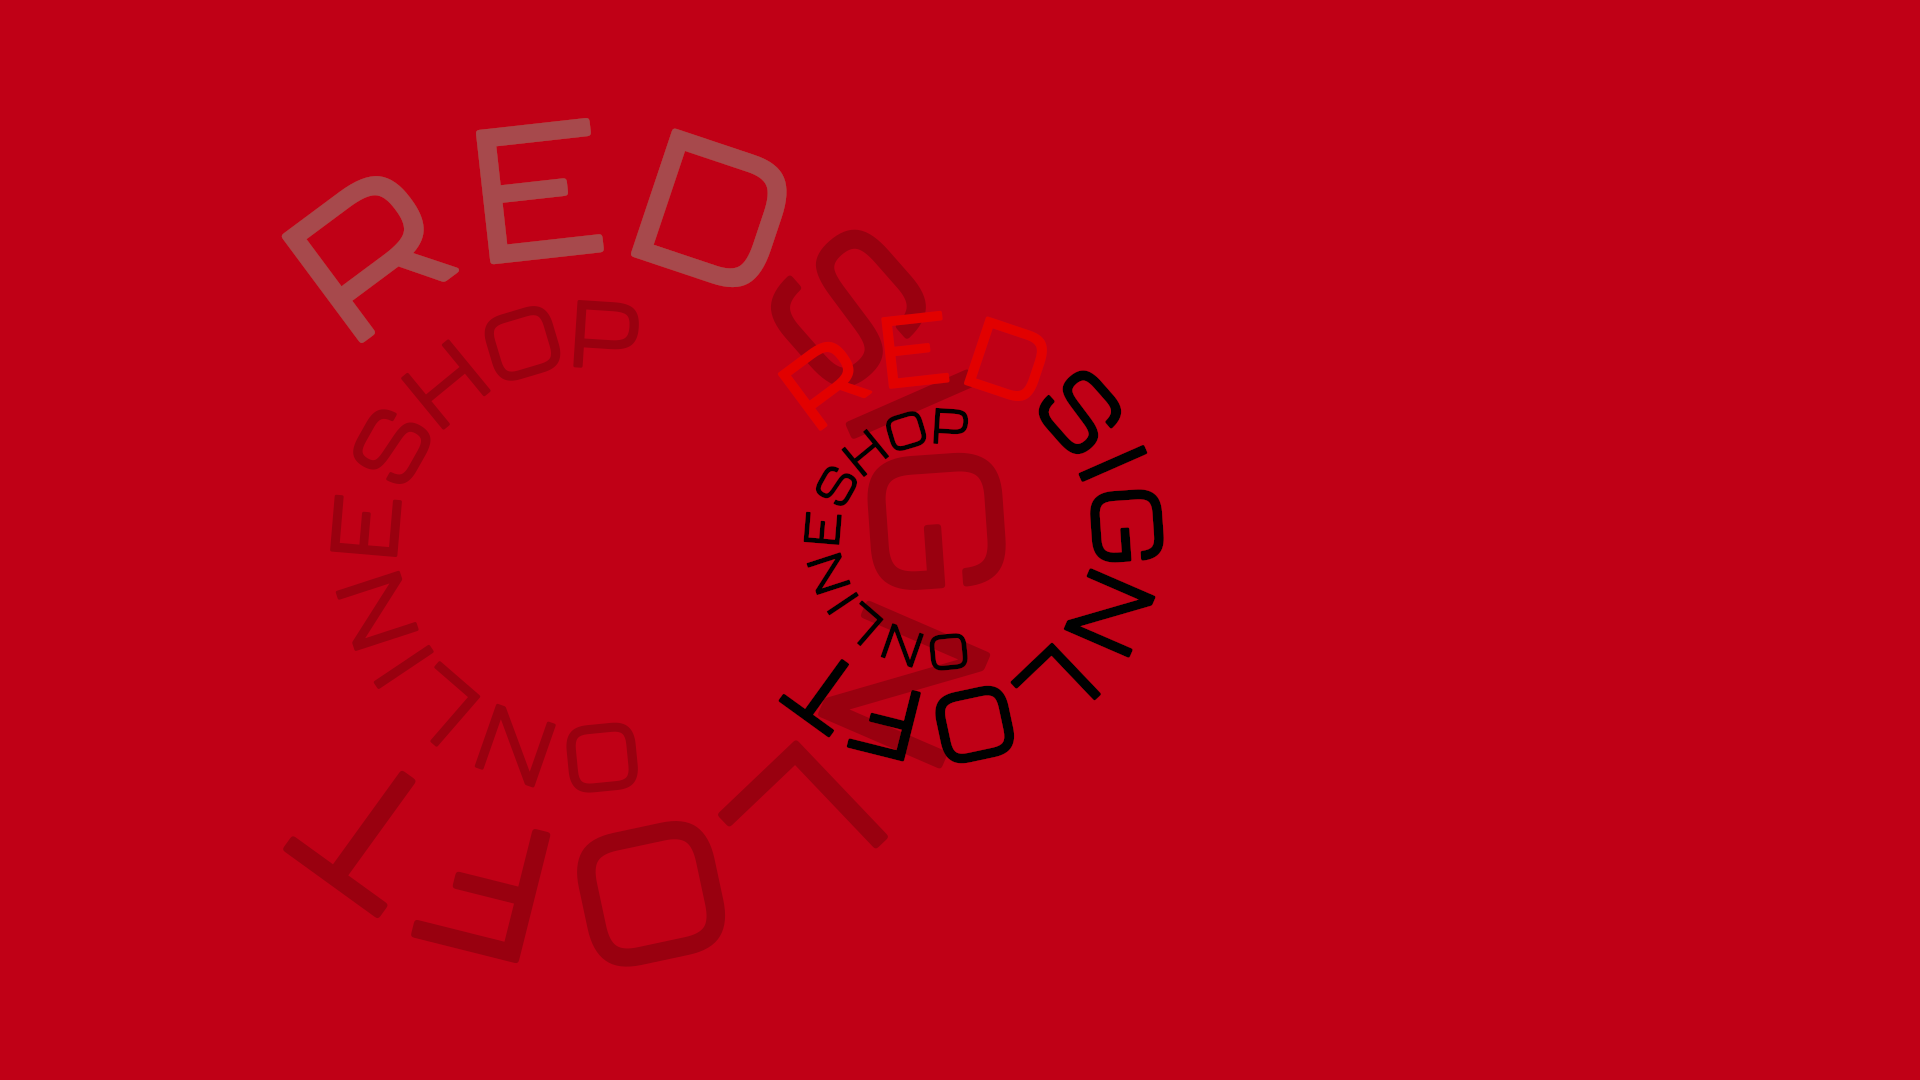
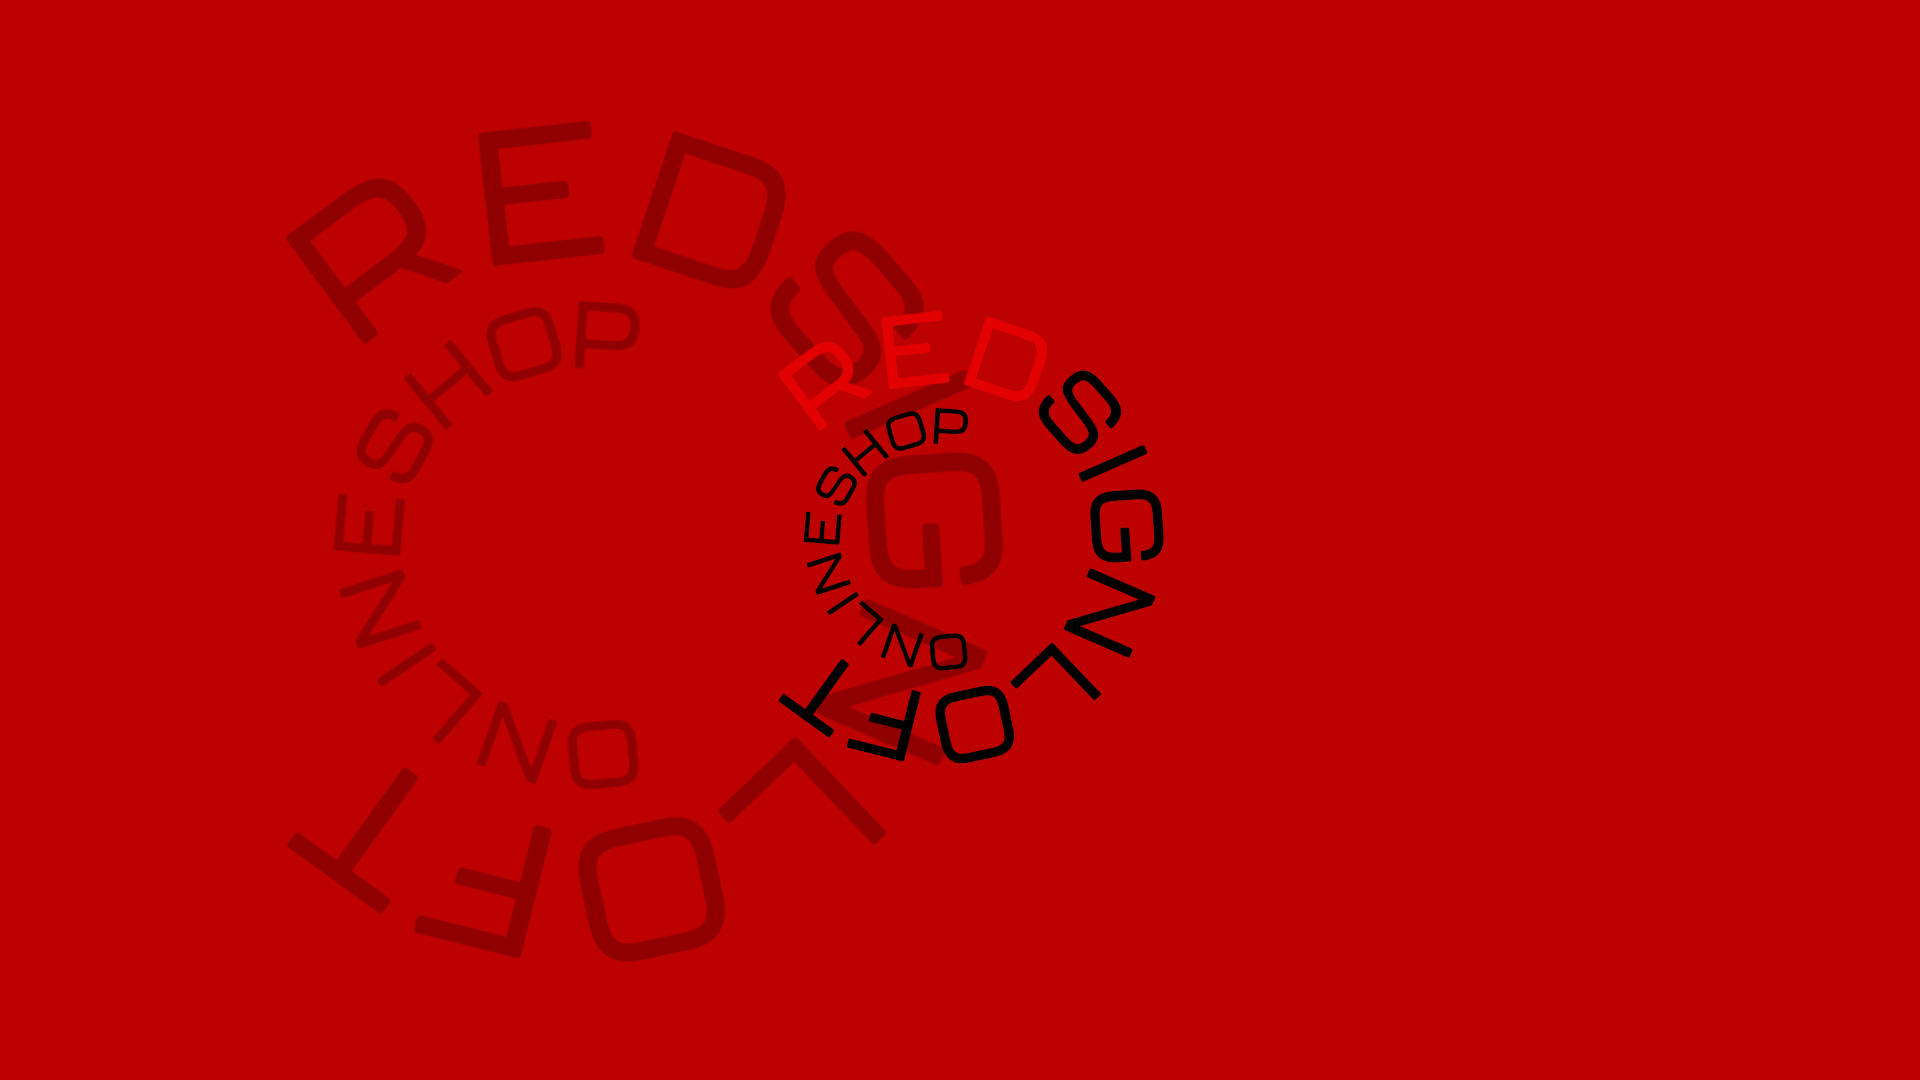
Add files via upload

diff --git a/css/red.css b/css/red.css
@@ -1,64 +1,59 @@
-@media screen and (min-width: 420px) {
+@media screen and (min-width: 450px) {
 	#oneRed {
-		background-image: linear-gradient(rgba(0,0,0, 0.2), rgba(0,0,0, 0.2)), url("https://firebasestorage.googleapis.com/v0/b/makotty-web.appspot.com/o/maxresdefault.jpg?alt=media&token=4a5fc581-c177-40c1-95dd-842bf4057ca5");
+		background-image: linear-gradient(rgba(0,0,0, 0.2), rgba(0,0,0, 0.2)), url("https://firebasestorage.googleapis.com/v0/b/makotty-web.appspot.com/o/redv2.png?alt=media&token=db4402d1-d36f-49ad-817c-410ccf1b8af9");
 	}
 
 	#two2 {
-		background-image: linear-gradient(rgba(0,0,0, 0), rgba(0,0,0, 0)), url("https://firebasestorage.googleapis.com/v0/b/makotty-web.appspot.com/o/red1.png?alt=media&token=29d419e7-0aae-4b9b-a2b1-1e60c3168d9a");
+		background-image: linear-gradient(rgba(0,0,0, 0), rgba(0,0,0, 0)), url("https://firebasestorage.googleapis.com/v0/b/makotty-web.appspot.com/o/red1.png?alt=media&token=9206ec16-aa5d-410d-8195-139da1642385");
 	}
 
 	#three3 {
 		background-image: linear-gradient(rgba(0,0,0, 0), rgba(0,0,0, 0)), url("https://firebasestorage.googleapis.com/v0/b/makotty-web.appspot.com/o/redgrid.png?alt=media&token=701ae8de-0f37-4170-a947-1e25ea3ff719");
 	}
 
-	#typo {
-		background-image: linear-gradient(rgba(0,0,0, 0), rgba(0,0,0, 0)), url("");
-	}
-
-	#font {
-		background-image: linear-gradient(rgba(0,0,0, 0), rgba(0,0,0, 0)), url("");
-	}
-
-	#color {
-		background-image: linear-gradient(rgba(0,0,0, 0), rgba(0,0,0, 0)), url("");
-	}
-
 	#mockred {
 		background-image: linear-gradient(rgba(0,0,0, 0), rgba(0,0,0, 0)), url("https://firebasestorage.googleapis.com/v0/b/makotty-web.appspot.com/o/mocred.jpg?alt=media&token=fee2108d-49b5-4a6e-ade9-5d003526a7a6");
 	}
+	
+	.mainmob_web img {
+		display: none;
+	}
+	
+	.main_web img {
+		width: 100%;;
+	}
 }
 
-@media screen and (max-width: 420px) {
+@media screen and (max-width: 450px) {
 	#oneRed {
-		background-image: linear-gradient(rgba(0,0,0, 0.1), rgba(0,0,0, 0.1)), url("");
+		background-image: linear-gradient(rgba(0,0,0, 0.1), rgba(0,0,0, 0.1)), url("https://firebasestorage.googleapis.com/v0/b/makotty-web.appspot.com/o/redmainmob.png?alt=media&token=1c02b8b4-7c7a-4994-8cee-005fdbd066b8");
 	}
 
-	#two {
-		background-image: linear-gradient(rgba(0,0,0, 0), rgba(0,0,0, 0)), url("");
+	#two2 {
+		background-image: linear-gradient(rgba(0,0,0, 0), rgba(0,0,0, 0)), url("https://firebasestorage.googleapis.com/v0/b/makotty-web.appspot.com/o/redonemob.png?alt=media&token=a9f0788e-8f84-40cb-956d-dd02bca3c2ab");
 	}
 
-	#three {
-		background-image: linear-gradient(rgba(0,0,0, 0), rgba(0,0,0, 0)), url("");
+	#three3 {
+		background-image: linear-gradient(rgba(0,0,0, 0), rgba(0,0,0, 0)), url("https://firebasestorage.googleapis.com/v0/b/makotty-web.appspot.com/o/redgridmob.png?alt=media&token=acfe3f69-eba4-4bce-a132-700a88a46532");
 	}
 
-	#typo {
-		background-image: linear-gradient(rgba(0,0,0, 0), rgba(0,0,0, 0)), url("");
-	}
-
-	#font {
+	#mockred {
+		background-image: linear-gradient(rgba(0,0,0, 0), rgba(0,0,0, 0)), url("https://firebasestorage.googleapis.com/v0/b/makotty-web.appspot.com/o/mockupred1.jpg?alt=media&token=7dd337a1-0729-4d2f-b242-580d3eff0c89");
+  	}
+  
+	.main_web img {
 		display: none;
-		background-image: linear-gradient(rgba(0,0,0, 0), rgba(0,0,0, 0)), url("");
 	}
-
-	#lettersvart {
-		background-image: linear-gradient(rgba(0,0,0, 0), rgba(0,0,0, 0)), url("");
+	
+	.mainmob_web img {
+		width: 100%;;
 	}
+}
 
-	#color {
-		background-image: linear-gradient(rgba(0,0,0, 0), rgba(0,0,0, 0)), url("");
-	}
-
-	#mockup1 {
-		background-image: linear-gradient(rgba(0,0,0, 0), rgba(0,0,0, 0)), url("");
-  }
+.block1 {
+    height: 140vh;
+    background-size: 100%;
+    background-position: center;
+    background-repeat: no-repeat;
+    background-size: cover;
 }

diff --git a/css/main.css b/css/main.css
@@ -271,7 +271,7 @@ l
     }
 
     #first {
-      background-image: linear-gradient(rgba(0,0,0, 0.2), rgba(0,0,0, 0.2)), url("https://firebasestorage.googleapis.com/v0/b/makotty-web.appspot.com/o/mobilemain.png?alt=media&token=eac98742-42ed-482f-85d8-76c58c16425b");
+      background-image: linear-gradient(rgba(0,0,0, 0.1), rgba(0,0,0, 0.2)), url("https://firebasestorage.googleapis.com/v0/b/makotty-web.appspot.com/o/mobilemain.png?alt=media&token=eac98742-42ed-482f-85d8-76c58c16425b");
     }
 
     #second {
@@ -279,11 +279,11 @@ l
     }
 
     #third {
-      background-image: linear-gradient(rgba(0,0,0, 0.2), rgba(0,0,0, 0.2)), url("https://firebasestorage.googleapis.com/v0/b/makotty-web.appspot.com/o/redmainmob.png?alt=media&token=c220f713-7fbd-4409-bef8-c9fad9dc478d");
+      background-image: linear-gradient(rgba(0,0,0, 0.2), rgba(0,0,0, 0.2)), url("https://firebasestorage.googleapis.com/v0/b/makotty-web.appspot.com/o/redmainmob.png?alt=media&token=5dca3d7c-c1b6-45e9-a0f1-835f5f549f92");
     }
 
     #fourth {
-      background-image: linear-gradient(rgba(0,0,0, 0.2), rgba(0,0,0, 0.2)), url("https://firebasestorage.googleapis.com/v0/b/makotty-web.appspot.com/o/maindaisy.jpg?alt=media&token=6a077043-83e7-48dc-9e10-858d1a669c6a");
+      background-image: linear-gradient(rgba(0,0,0, 0.2), rgba(0,0,0, 0.2)), url("https://firebasestorage.googleapis.com/v0/b/makotty-web.appspot.com/o/daisymainvar.png?alt=media&token=8c8f9c05-d443-4484-8c4b-9e08c89474ae");
     }
     
     .bottomBlock {
@@ -305,11 +305,11 @@ l
     }
 
     #third {
-      background-image: linear-gradient(rgba(0,0,0, 0.2), rgba(0,0,0, 0.2)), url("https://firebasestorage.googleapis.com/v0/b/makotty-web.appspot.com/o/maxresdefault.jpg?alt=media&token=4a5fc581-c177-40c1-95dd-842bf4057ca5");
+      background-image: linear-gradient(rgba(0,0,0, 0.1), rgba(0,0,0, 0.1)), url("https://firebasestorage.googleapis.com/v0/b/makotty-web.appspot.com/o/redv2.png?alt=media&token=db4402d1-d36f-49ad-817c-410ccf1b8af9");
     }
 
     #fourth {
-      background-image: linear-gradient(rgba(0,0,0, 0.2), rgba(0,0,0, 0.2)), url("https://firebasestorage.googleapis.com/v0/b/makotty-web.appspot.com/o/maindaisy.jpg?alt=media&token=6a077043-83e7-48dc-9e10-858d1a669c6a");
+      background-image: linear-gradient(rgba(0,0,0, 0.2), rgba(0,0,0, 0.2)), url("https://firebasestorage.googleapis.com/v0/b/makotty-web.appspot.com/o/daisymainvar.png?alt=media&token=8c8f9c05-d443-4484-8c4b-9e08c89474ae");
     }
   }
   
@@ -346,7 +346,17 @@ l
     }
   }
 
-  @media screen and (min-width: 900px) and (max-width: 1080px) {
+  @media screen and (min-width: 900px) and (max-width: 1080px) and (min-height: 385px) and (max-height: 950px) {
+    .mainImgText {
+      font-size: 70px;
+    }
+
+    .bottomBlock {
+      margin-top: 45vh;
+    }
+  }
+
+  @media screen and (min-width: 900px) and (max-width: 1080px) and (min-height: 950px) {
     .mainImgText {
       font-size: 70px;
       width: 60%;
@@ -401,7 +411,7 @@ l
     }
 
     .icondown {
-      color: rgba(255, 255, 255);
+      color: black;
     }
     
     .line {
@@ -475,6 +485,10 @@ l
 
     .block {
       padding-top: 30px;
+    }
+
+    .closebtn {
+      display: none;
     }
   }
 

diff --git a/css/vart.css b/css/vart.css
@@ -27,13 +27,29 @@
 		background-image: linear-gradient(rgba(0,0,0, 0), rgba(0,0,0, 0)), url("https://firebasestorage.googleapis.com/v0/b/makotty-web.appspot.com/o/colors.jpg?alt=media&token=a580ea43-5114-4ea4-95e1-7d5a9348e0b0");
 	}
 
+	#mockup {
+		background-image: linear-gradient(rgba(0,0,0, 0), rgba(0,0,0, 0)), url("https://firebasestorage.googleapis.com/v0/b/makotty-web.appspot.com/o/mockup12.jpg?alt=media&token=dceb5267-ffbd-4618-a78a-5f38281f941c");
+	}
+	  
 	#mockup1 {
-		background-image: linear-gradient(rgba(0,0,0, 0), rgba(0,0,0, 0)), url("https://firebasestorage.googleapis.com/v0/b/makotty-web.appspot.com/o/mockup.jpg?alt=media&token=18b1e304-8290-450b-acc4-16bea9bc1905");
+		background-image: linear-gradient(rgba(0,0,0, 0), rgba(0,0,0, 0)), url("https://firebasestorage.googleapis.com/v0/b/makotty-web.appspot.com/o/mockup12.jpg?alt=media&token=ab83b375-3aaa-42ff-a1a5-661353ab26b0");
 	}
 	  
 	#mockup2 {
-		background-image: linear-gradient(rgba(0,0,0, 0), rgba(0,0,0, 0)), url();
-  	}
+		display: none;
+	}
+
+	.buta img{
+		width: 300px;
+		transform: rotate(90deg);
+		opacity: 0.7;
+	}
+
+	.buta1 img{
+		width: 300px;
+		transform: rotate(-90deg);
+		opacity: 0.7;
+	}
 }
 
 @media screen and (max-width: 420px) {
@@ -59,7 +75,6 @@
 
 	#font {
 		display: none;
-		background-image: linear-gradient(rgba(0,0,0, 0), rgba(0,0,0, 0)), url("https://firebasestorage.googleapis.com/v0/b/makotty-web.appspot.com/o/fontgrid.jpg?alt=media&token=d4a15ede-ddff-4105-9c50-ae2c4583ba72");
 	}
 
 	#lettersvart {
@@ -70,9 +85,17 @@
 		background-image: linear-gradient(rgba(0,0,0, 0), rgba(0,0,0, 0)), url("https://firebasestorage.googleapis.com/v0/b/makotty-web.appspot.com/o/mobilecolors.png?alt=media&token=f704099f-716b-4895-a6cc-5f8122ff05d6");
 	}
 
-	#mockup1 {
-		background-image: linear-gradient(rgba(0,0,0, 0), rgba(0,0,0, 0)), url("https://firebasestorage.googleapis.com/v0/b/makotty-web.appspot.com/o/mockup.jpg?alt=media&token=18b1e304-8290-450b-acc4-16bea9bc1905");
-  }
+	#mockup {
+		background-image: linear-gradient(rgba(0,0,0, 0), rgba(0,0,0, 0)), url("https://firebasestorage.googleapis.com/v0/b/makotty-web.appspot.com/o/mockupvartmob.jpg?alt=media&token=a5152ea1-cf94-4a7a-b5b3-58c062f215f0");
+	}
+	  
+	#mockup, #mockup1, .buta img, .buta1 img {
+		display: none;
+	}
+
+	.mob_mock img {
+		width: 100%;
+	}
 }
 
 .textvart h4 {
@@ -109,18 +132,6 @@ body {
 .but1 {
 	margin: 20px;
 	border-right: 5px black;
-}
-
-.buta img{
-	width: 300px;
-	transform: rotate(90deg);
-	opacity: 0.7;
-}
-
-.buta1 img{
-	width: 300px;
-	transform: rotate(-90deg);
-	opacity: 0.7;
 }
 
 .but:hover {

diff --git a/vart.html b/vart.html
@@ -116,6 +116,8 @@
   <div class="block" id="color"></div>
 
   <div class="blockvart" id="mockup1"></div>
+  <div class="blockvart" id="mockup"></div>
+  <div class="mob_mock" id="mockup2"><img src="img/vart/mockupvartmob.jpg"></div>
   
   <div class="back">
     <a href="/maridmi.github.io/" class="prevpage"><button class="nextPageButton"></button><img src="img/chevback.png"></button></a>

diff --git a/red.html b/red.html
@@ -105,9 +105,9 @@
   </div>
 
   <div class="block" id="two2"></div>
-
   <div class="block" id="three3"></div>
-
+  <div class="main_web"><img src="img/red/illtry.jpg"></div>
+  <div class="mainmob_web"><img src="img/red/redmobfont.jpg"></div>
   <div class="block" id="mockred"></div>
   
   <div class="back">

diff --git a/index.html b/index.html
@@ -15,7 +15,7 @@
   <link rel="shortcut icon" href="img/navlogo.png" type="image/x-icon">
 </head>
 <body>
-
+  
   <div id="myNav" class="overlay row">
     <a href="javascript:void(0)" class="closebtn" onclick="closeNav()">&times;</a>
     <div class="overlay-content">

diff --git a/css/web.css b/css/web.css
@@ -79,11 +79,11 @@ h1 {
 		flex-direction: row;
 		align-items: center;
 		justify-content: center;
-		padding: 10%;
+		padding: 15%;
 	}
 
 	.txt {
-		padding: 10%;
+		padding: 5%;
 		width: 100%;
 	}
 }
